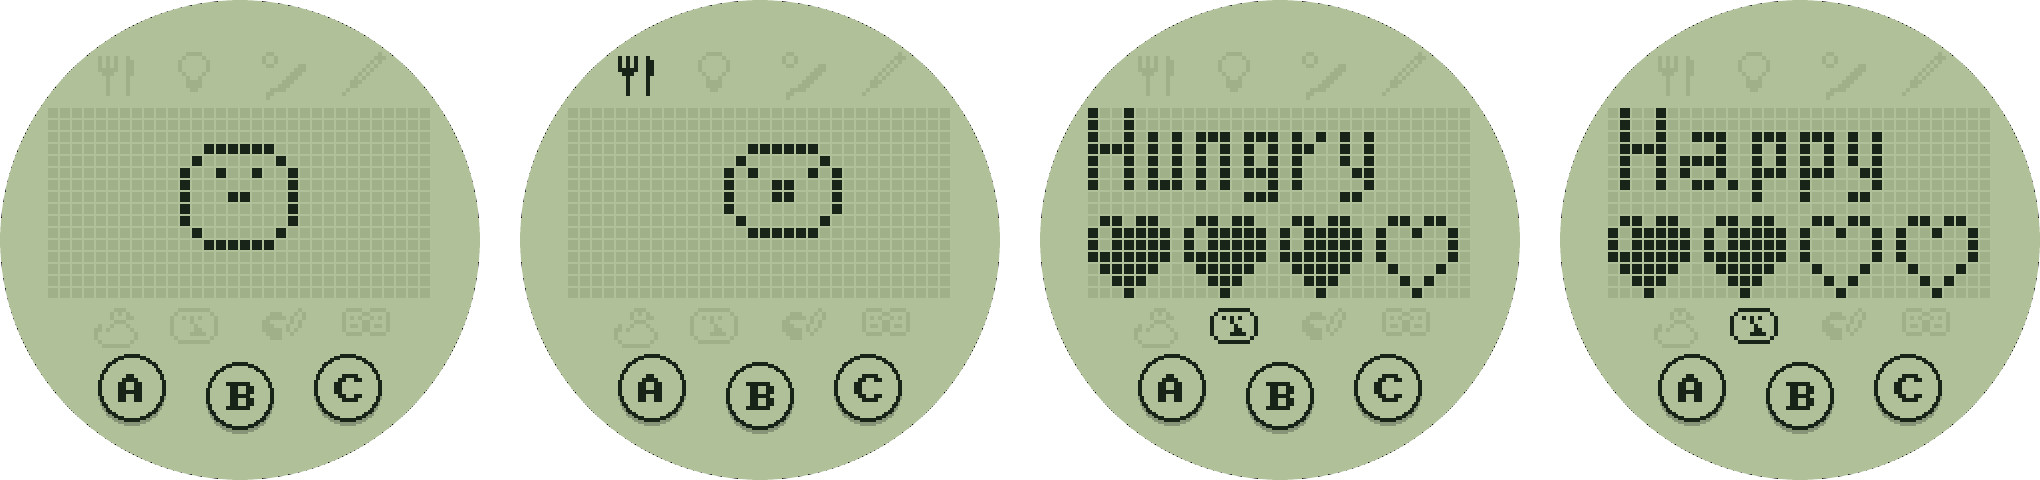
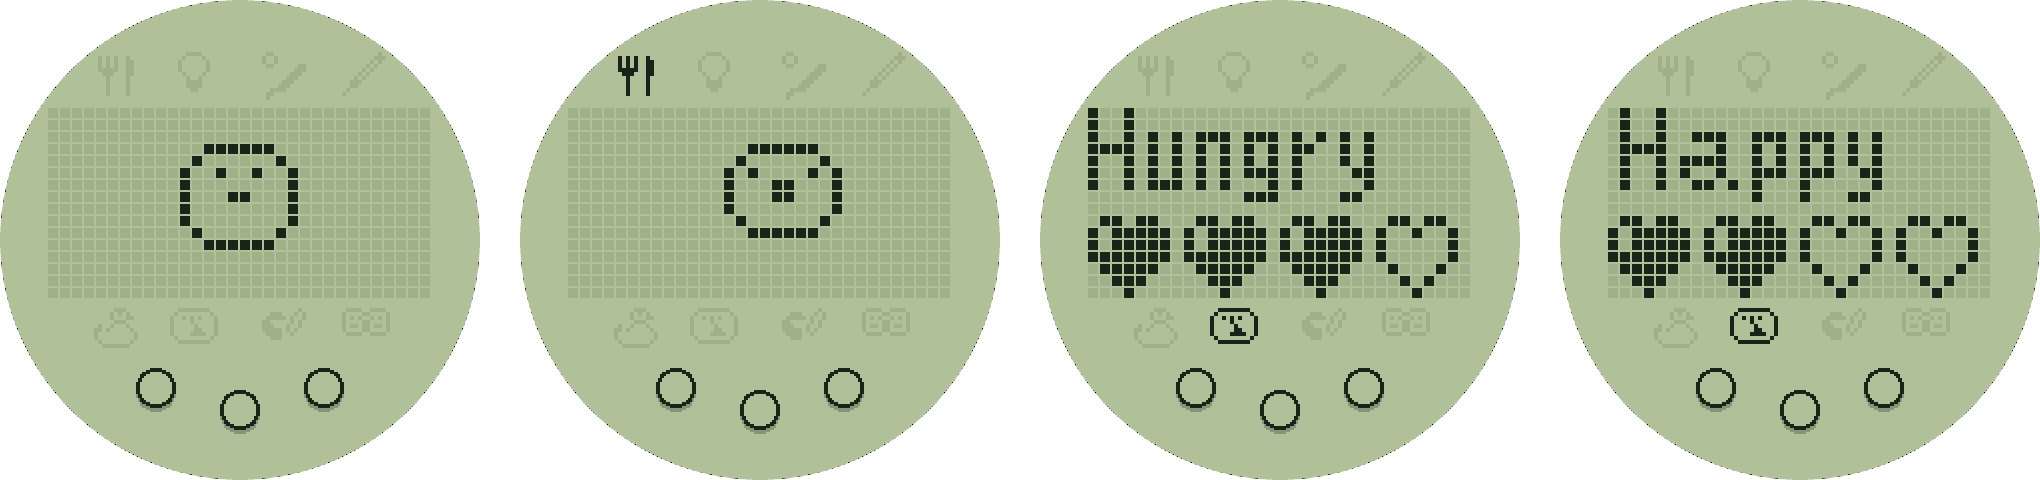
ui: smaller pet keys without letters, on an arc concentric with the screen
Owner feedback: the 34 px lettered keys were bigger than needed and the
arc didn't follow the screen's curve. The keys are 20 px now, on a circle
around the screen's centre through B; the strip split follows them.

diff --git a/test/host/test_ui_render.c b/test/host/test_ui_render.c
@@ -130,10 +130,10 @@ static void test_buttons_drawn(void)
     for (int i = 0; i < 3; i++) {
         int cx, cy;
         ui_button_centre(BTN[i], &cx, &cy);
-        TEST_ASSERT_EQUAL_HEX16(BG, PX(cx, cy + 12));             // inside the key, under the letter
+        TEST_ASSERT_EQUAL_INT(10, UI_BTN_R);                        // 20 px across (owner's pick)
         TEST_ASSERT_EQUAL_HEX16(INK, PX(cx, cy - (UI_BTN_R - 1)));  // outline
         TEST_ASSERT_EQUAL_HEX16(INK, PX(cx - (UI_BTN_R - 1), cy));
-        TEST_ASSERT_GREATER_THAN_MESSAGE(10, ink_near(cx, cy, 9), "letter missing");
+        TEST_ASSERT_EQUAL_INT_MESSAGE(0, ink_near(cx, cy, UI_BTN_R - 4), "the face has no letter");
         uint16_t shadow = ui_rgb565(ui_mix(UI_PALETTE_CLASSIC.bg, (ui_rgb_t){ 0, 0, 0 }, 22));
         TEST_ASSERT_EQUAL_HEX16(shadow, PX(cx, cy + UI_BTN_R + 1));  // 2 px shadow under the key
     }
@@ -145,20 +145,19 @@ static void test_held_fills(void)
     for (int i = 0; i < 3; i++) {
         int cx, cy;
         ui_button_centre(BTN[i], &cx, &cy);
-        TEST_ASSERT_EQUAL_HEX16(BTN[i] == TC_BTN_B ? INK : BG, PX(cx, cy + 12));
+        TEST_ASSERT_EQUAL_HEX16(BTN[i] == TC_BTN_B ? INK : BG, PX(cx, cy));
     }
     int bx, by;
     ui_button_centre(TC_BTN_B, &bx, &by);
-    int letter_bg = 0;  // the held key's letter turns background colour
-    for (int y = by - 8; y < by + 8; y++)
-        for (int x = bx - 8; x < bx + 8; x++) letter_bg += PX(x, y) == BG;
-    TEST_ASSERT_GREATER_THAN(10, letter_bg);
+    for (int y = by - (UI_BTN_R - 4); y <= by + UI_BTN_R - 4; y++)  // held: the whole face is ink
+        for (int x = bx - (UI_BTN_R - 4); x <= bx + UI_BTN_R - 4; x++)
+            if ((x - bx) * (x - bx) + (y - by) * (y - by) <= (UI_BTN_R - 4) * (UI_BTN_R - 4)) TEST_ASSERT_EQUAL_HEX16(INK, PX(x, y));
 
     render(TC_BTN_MASK(TC_BTN_A) | TC_BTN_MASK(TC_BTN_C));
     for (int i = 0; i < 3; i++) {
         int cx, cy;
         ui_button_centre(BTN[i], &cx, &cy);
-        TEST_ASSERT_EQUAL_HEX16(BTN[i] == TC_BTN_B ? BG : INK, PX(cx, cy + 12));
+        TEST_ASSERT_EQUAL_HEX16(BTN[i] == TC_BTN_B ? BG : INK, PX(cx, cy));
     }
 }
 

diff --git a/components/ui/ui_touch.c b/components/ui/ui_touch.c
@@ -1,27 +1,32 @@
 // SPDX-License-Identifier: GPL-3.0-or-later
 #include "ui.h"
 
-#define BTN_SPREAD 54   // A and C sit this far left and right of B
-#define BTN_RISE    4   // and this much higher
+#define BTN_DX 42   // A and C sit this far left and right of B, on B's arc
 
 static int strip_top(void) { return UI_LCD_Y + 16 * UI_LCD_PITCH + 2; }
 static int strip_bottom(void) { return UI_H - UI_EDGE_BAND - 1; }
 
-void ui_button_centre(int btn, int *x, int *y)
+static int isqrt(int v)  // nearest integer square root, v >= 0
 {
-    const int by = strip_bottom() - UI_BTN_R;
-    switch (btn) {
-    case TC_BTN_A: *x = UI_W / 2 - BTN_SPREAD; *y = by - BTN_RISE; break;
-    case TC_BTN_C: *x = UI_W / 2 + BTN_SPREAD; *y = by - BTN_RISE; break;
-    default:       *x = UI_W / 2;              *y = by;            break;
-    }
+    int r = 0;
+    while ((r + 1) * (r + 1) <= v) r++;
+    return (v - r * r > (r + 1) * (r + 1) - v) ? r + 1 : r;
 }
 
-// Split halfway between the button centres: x < 93 A, 93..146 B, >= 147 C on 240 px.
+// The keys sit on an arc concentric with the screen: B at the bottom of the strip, A and C BTN_DX to either side.
+void ui_button_centre(int btn, int *x, int *y)
+{
+    const int cx = UI_W / 2, cy = UI_H / 2, ra = strip_bottom() - UI_BTN_R - cy;
+    const int dx = btn == TC_BTN_A ? -BTN_DX : btn == TC_BTN_C ? BTN_DX : 0;
+    *x = cx + dx;
+    *y = cy + isqrt(ra * ra - dx * dx);
+}
+
+// Split halfway between the button centres: x < 99 A, 99..140 B, >= 141 C on 240 px.
 static int button_for_x(int x)
 {
-    if (x < UI_W / 2 - BTN_SPREAD / 2) return TC_BTN_A;
-    if (x < UI_W / 2 + BTN_SPREAD / 2) return TC_BTN_B;
+    if (x < UI_W / 2 - BTN_DX / 2) return TC_BTN_A;
+    if (x < UI_W / 2 + BTN_DX / 2) return TC_BTN_B;
     return TC_BTN_C;
 }
 

diff --git a/test/host/test_ui_touch.c b/test/host/test_ui_touch.c
@@ -11,10 +11,10 @@ void tearDown(void) {}
 
 static void test_strip_split(void)
 {
-    TEST_ASSERT_EQUAL_INT(TC_BTN_A, ui_button_at(92, 190));
-    TEST_ASSERT_EQUAL_INT(TC_BTN_B, ui_button_at(93, 190));
-    TEST_ASSERT_EQUAL_INT(TC_BTN_B, ui_button_at(146, 190));
-    TEST_ASSERT_EQUAL_INT(TC_BTN_C, ui_button_at(147, 190));
+    TEST_ASSERT_EQUAL_INT(TC_BTN_A, ui_button_at(98, 190));
+    TEST_ASSERT_EQUAL_INT(TC_BTN_B, ui_button_at(99, 190));
+    TEST_ASSERT_EQUAL_INT(TC_BTN_B, ui_button_at(140, 190));
+    TEST_ASSERT_EQUAL_INT(TC_BTN_C, ui_button_at(141, 190));
     TEST_ASSERT_EQUAL_INT(-1, ui_button_at(120, 151));
     TEST_ASSERT_EQUAL_INT(TC_BTN_B, ui_button_at(120, 152));
     TEST_ASSERT_EQUAL_INT(TC_BTN_B, ui_button_at(120, 215));
@@ -24,7 +24,8 @@ static void test_strip_split(void)
 
 static void test_button_centres(void)
 {
-    static const int want[3][2] = { { 66, 194 }, { 120, 198 }, { 174, 194 } };
+    // on an arc concentric with the screen (radius 85 from (120,120)): B at the bottom, A and C 42 px out
+    static const int want[3][2] = { { 78, 194 }, { 120, 205 }, { 162, 194 } };
     static const int btn[3] = { TC_BTN_A, TC_BTN_B, TC_BTN_C };
     for (int i = 0; i < 3; i++) {
         int x = -1, y = -1;
@@ -69,7 +70,7 @@ static void test_strip_press_survives_moving_up(void)
     ui_touch_tracker_t tr = { 0 };
     ui_touch_t t = pt(66, 200);
     TEST_ASSERT_EQUAL_HEX8(A, ui_touch_track(&tr, &t));
-    t = pt(66, 100);
+    t = pt(66, 100);  // x 66 is still A's part
     TEST_ASSERT_EQUAL_HEX8(A, ui_touch_track(&tr, &t));
     t = pt(200, 100);
     TEST_ASSERT_EQUAL_HEX8(A | C, ui_touch_track(&tr, &t));

diff --git a/components/ui/include/ui.h b/components/ui/include/ui.h
@@ -31,10 +31,11 @@ void ui_render_pet(uint16_t *fb, const tc_frame_t *f, tc_model_t model,
 #define UI_LCD_Y     54
 #define UI_LCD_PITCH 6
 #define UI_LCD_DOT   5
-#define UI_BTN_R     17   // pet button radius: 34 px across
+#define UI_BTN_R     10   // pet button radius: 20 px across, no letter (like the real P1)
 
-// Pet-screen buttons. The strip is y from the LCD's bottom + 2 to the bottom edge band (152..215 on 240x240);
-// B is centred at (UI_W/2, strip bottom - UI_BTN_R), A and C 54 px either side and 4 px higher.
+// Pet-screen buttons. The strip is y from the LCD's bottom + 2 to the bottom edge band (152..215 on 240x240).
+// The keys sit on an arc concentric with the screen: B at (UI_W/2, strip bottom - UI_BTN_R), A and C 42 px to
+// either side on the same arc ((78,194), (120,205), (162,194) on 240x240).
 void ui_button_centre(int btn, int *x, int *y);   // btn = TC_BTN_A/B/C
 // TC_BTN_A/B/C for a point in the strip (split halfway between the centres, so every circle presses only its
 // own button), -1 elsewhere (the LCD, the icons above it, the bottom edge band).

diff --git a/components/ui/ui_pet.c b/components/ui/ui_pet.c
@@ -12,7 +12,7 @@ static void fill(uint16_t *fb, int x, int y, int w, int h, uint16_t c)
         for (int i = x; i < x + w; i++) fb[j * UI_W + i] = c;
 }
 
-// A raised key: shadow 2 px lower, ink outline 2 px, face bg (ink when held), letter at scale 2 in the other colour.
+// A raised key, no letter (like the real P1): shadow 2 px lower, ink outline 2 px, face bg (ink when held).
 static void draw_button(uint16_t *fb, int btn, bool held, uint16_t bg, uint16_t ink, uint16_t shadow)
 {
     int cx, cy;
@@ -21,8 +21,6 @@ static void draw_button(uint16_t *fb, int btn, bool held, uint16_t bg, uint16_t 
     ui_fill_disc(fb, x, y + 2, d, shadow);
     ui_fill_disc(fb, x, y, d, ink);
     ui_fill_disc(fb, x + 2, y + 2, d - 4, held ? ink : bg);
-    const char letter[2] = { (char)('A' + btn - TC_BTN_A), 0 };
-    ui_draw_text(fb, cx - ui_text_width(letter, 2) / 2, cy - 7, letter, 2, held ? bg : ink);
 }
 
 void ui_render_pet(uint16_t *fb, const tc_frame_t *f, tc_model_t model, uint8_t held_mask, const ui_palette_t *p)

diff --git a/README.md b/README.md
@@ -43,7 +43,7 @@ These are the MAME `tama` / `tamag2` sets; MAME zips work directly with the tool
 
 | Action | How |
 |---|---|
-| A / B / C | Tap the A, B or C button under the screen (anywhere in its part of the strip below the pet's screen). Touching the pet's screen or the icons above it presses nothing |
+| A / B / C | Tap the left, middle or right button under the pet's screen (anywhere in its part of the strip below it). Touching the pet's screen or the icons above it presses nothing |
 | A + C | Touch A and slide to C, or C to A (the touch chip can't tell two side-by-side fingers apart) |
 | Glance | Swipe down from the top edge. It shows the clock, battery, hunger and happy hearts, a live copy of the pet, what the pet needs, age, weight, discipline and the panel address |
 | Settings | Swipe up from the bottom edge. Tap a row to open it, drag to change a value or scroll the list. Rows: Sound, Brightness, Dimming, Palette, Time zone, ROM, Web panel (a QR code) |
